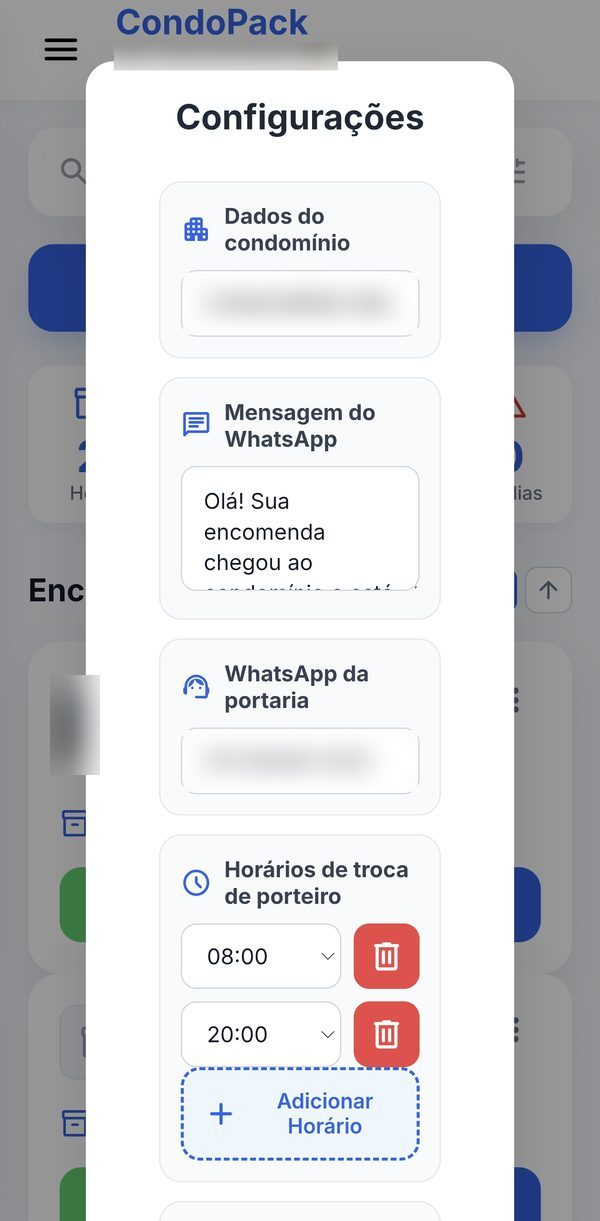
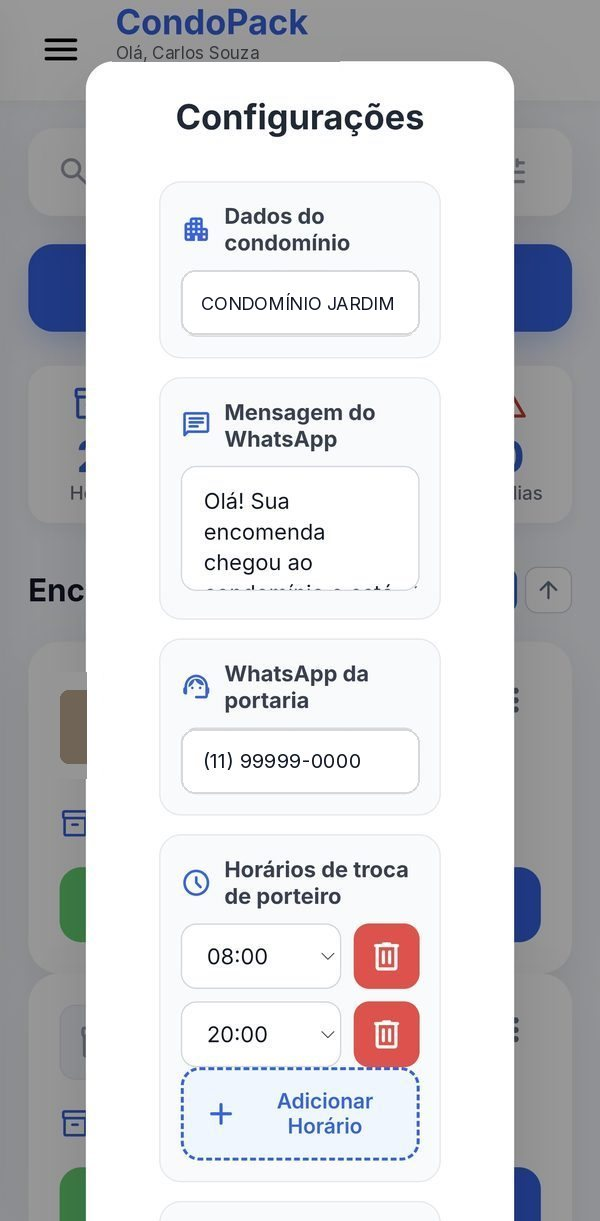
Troca os dados borrados das telas por dados fictícios
Claude-Session: https://claude.ai/code/session_01MHMRMLYgdrf1X9Mcf49jBt

diff --git a/index.html b/index.html
@@ -102,7 +102,7 @@
               <span class="ok-ico"><svg class="icon"><use href="#i-check"/></svg></span>
               <div><strong>Entrega registrada</strong><span>Foto e assinatura salvas</span></div>
             </div>
-            <span class="illus-note">Tela real do CondoPack · mensagem de exemplo</span>
+            <span class="illus-note">Telas reais do CondoPack · dados de exemplo</span>
           </div>
         </div>
       </div>
@@ -266,7 +266,7 @@
             <span class="eyebrow">Por dentro do CondoPack</span>
             <h2 id="titulo-telas" class="title-xl">Simples de usar. <span class="tone">Na rotina da portaria.</span></h2>
           </div>
-          <p class="lead-text">Telas reais do app, usadas todos os dias pelos porteiros no celular ou no computador.</p>
+          <p class="lead-text">Telas reais do app, usadas todos os dias pelos porteiros no celular ou no computador. Nomes e telefones são fictícios.</p>
         </div>
         <div class="gallery">
           <figure class="shot">

diff --git a/README.md b/README.md
@@ -18,7 +18,7 @@ O site também serve para a verificação de empresa da Meta (WhatsApp Business 
 | `assets/script.js` | Menu no celular, animação do "Como funciona" e calculadora de planos (preços em `precos`) |
 | `assets/favicon.svg` | Ícone do site |
 | `img/aviso-encomenda.jpg` | Imagem do aviso de encomenda (WhatsApp) |
-| `img/app/*.jpg` | Telas reais do app (dados pessoais borrados) usadas no hero e na seção "Por dentro do CondoPack" |
+| `img/app/*.jpg` | Telas reais do app (com dados fictícios no lugar dos dados pessoais) usadas no hero e na seção "Por dentro do CondoPack" |
 
 HTML e CSS estáticos, sem frameworks e sem etapa de build.
 
